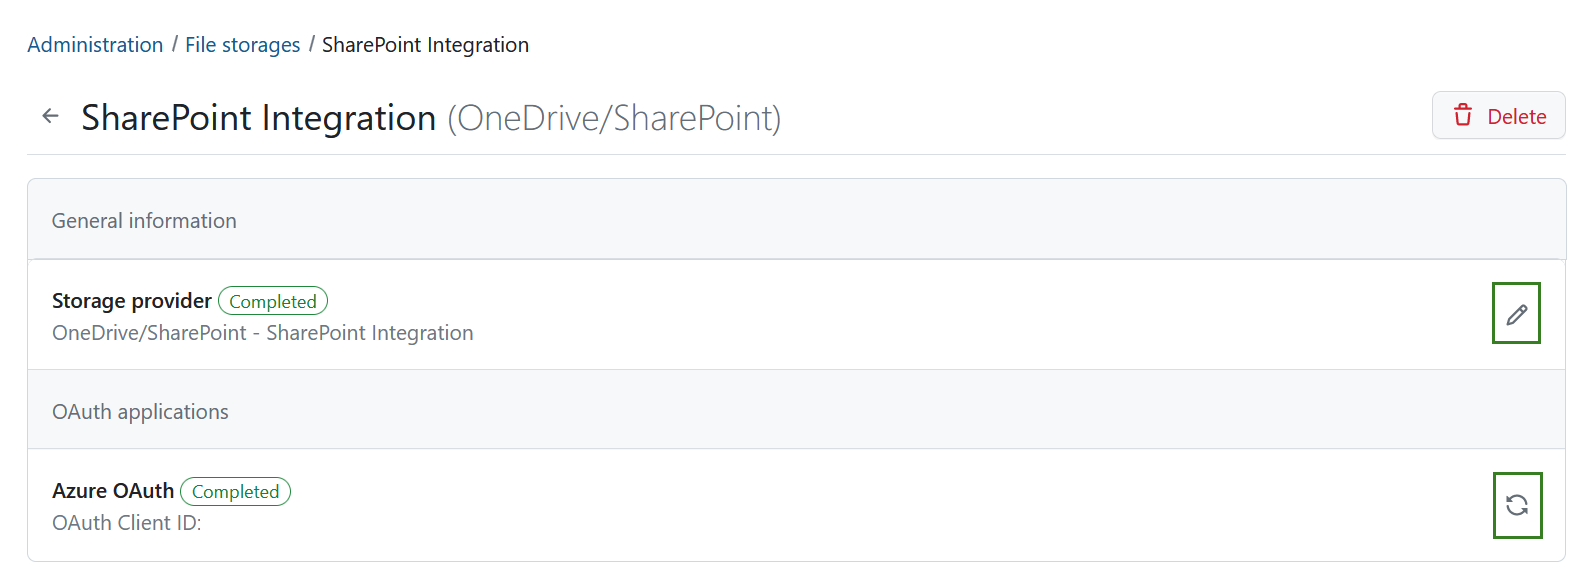
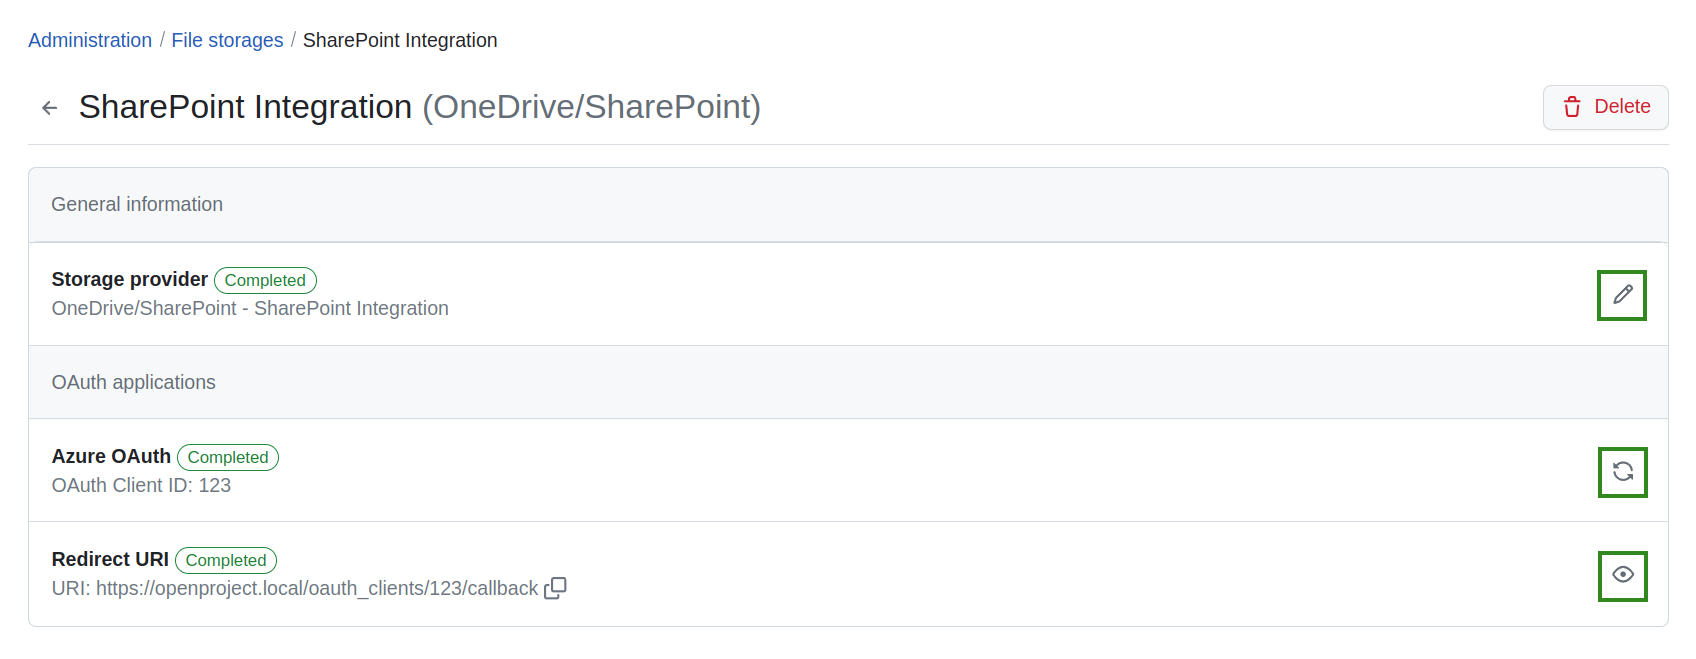
[chore] update screenshots for one drive admin guide

diff --git a/docs/system-admin-guide/integrations/one-drive/README.md b/docs/system-admin-guide/integrations/one-drive/README.md
@@ -6,26 +6,31 @@ description: Set up One Drive as a file storage in your OpenProject instance
 keywords: One Drive, SharePoint, file storage, integration
 ---
 
-
 # OneDrive/SharePoint (Enterprise add-on) integration setup
 
-| Topic                                                        | Description                                                  |
-| ------------------------------------------------------------ | :----------------------------------------------------------- |
-| [Minimum requirements](#minimum-requirements)                | Minimum version requirements to enable the integration       |
-| [Set up the integration](#set-up-the-integration)            | Connect OpenProject and OneDrive/SharePoint instances as an administrator |
-| [Drive ID guide](./drive-id-guide)                           | How to obtain a drive ID                                     |
-| [Using the integration](#using-the-integration)              | How to use the OneDrive/SharePoint integration               |
-| [Edit a OneDrive/SharePoint file storage](#edit-a-onedrivesharepoint-file-storage) | Edit a OneDrive/SharePoint file storage                      |
-| [Delete an OneDrive/SharePoint file storage](#delete-a-onedrivesharepoint-file-storage) | Delete a OneDrive/SharePoint file storage                    |
+| Topic                                                                                   | Description                                                               |
+|-----------------------------------------------------------------------------------------|:--------------------------------------------------------------------------|
+| [Minimum requirements](#minimum-requirements)                                           | Minimum version requirements to enable the integration                    |
+| [Set up the integration](#set-up-the-integration)                                       | Connect OpenProject and OneDrive/SharePoint instances as an administrator |
+| [Drive ID guide](./drive-id-guide)                                                      | How to obtain a drive ID                                                  |
+| [Using the integration](#using-the-integration)                                         | How to use the OneDrive/SharePoint integration                            |
+| [Edit a OneDrive/SharePoint file storage](#edit-a-onedrivesharepoint-file-storage)      | Edit a OneDrive/SharePoint file storage                                   |
+| [Delete an OneDrive/SharePoint file storage](#delete-a-onedrivesharepoint-file-storage) | Delete a OneDrive/SharePoint file storage                                 |
 
-> **Note**: OneDrive/SharePoint integration is an Enterprise add-on and can only be used with [Enterprise cloud](../../../enterprise-guide/enterprise-cloud-guide/) or [Enterprise on-premises](../../../enterprise-guide/enterprise-on-premises-guide/). An upgrade from the free Community edition is easy and helps support OpenProject.
+> **Note**: OneDrive/SharePoint integration is an Enterprise add-on and can only be used
+> with [Enterprise cloud](../../../enterprise-guide/enterprise-cloud-guide/)
+> or [Enterprise on-premises](../../../enterprise-guide/enterprise-on-premises-guide/). An upgrade from the free
+> Community
+> edition is easy and helps support OpenProject.
 
 OpenProject offers an integration with OneDrive/SharePoint to allow users to:
 
 - Link files and folders stored in OneDrive/SharePoint with OpenProject work packages
 - View, open and download files and folder linked to a work package via the Files tab
 
-> Note: This guide only covers the integration setup. Please go to our [OneDrive/SharePoint integration user guide](../../../user-guide/file-management/nextcloud-integration/) to learn more about how to work with the OneDrive/SharePoint integration.
+> Note: This guide only covers the integration setup. Please go to
+> our [OneDrive/SharePoint integration user guide](../../../user-guide/file-management/nextcloud-integration/) to learn
+> more about how to work with the OneDrive/SharePoint integration.
 
 ## Minimum requirements
 
@@ -34,57 +39,78 @@ Please note these minimum version requirements for the integration to work with 
 - OpenProject version 13.1 (or above)
 - Access to OneDrive/SharePoint
 
-We recommend using the latest versions of both OneDrive/SharePoint and OpenProject to be able to use the latest features. 
+We recommend using the latest versions of both OneDrive/SharePoint and OpenProject to be able to use the latest
+features.
 
 ## Set up the integration
 
 > **Important**: You need administrator privileges in the Azure portal for your Microsoft Entra ID and in your
 > OpenProject instance to set up this integration.
 
-Navigate to **System administration -> File storages**. You will see the list of all storages that have already been set up. If no files storages have been set up yet, a banner will tell you that there are no storages yet set up.
+Navigate to **System administration -> File storages**. You will see the list of all storages that have already been set
+up. If no files storages have been set up yet, a banner will tell you that there are no storages yet set up.
 
 Click the green **+Storage** button and select the OneDrive/SharePoint option.
 
 ![Add a new OneDrive/SharePoint storage to OpenProject](openproject_system_guide_new_onedrive_storage.png)
 
-A screen will open, in which you will need to add the following details for your new OneDrive/SharePoint storage. Please consult your Azure administrator and the [Drive ID guide](./drive-id-guide) to obtain respective information.
+A screen will open, in which you will need to add the following details for your new OneDrive/SharePoint storage. Please
+consult your Azure administrator and the [Drive ID guide](./drive-id-guide) to obtain respective information. Be aware,
+that the last step includes copying generated information to the Azure portal.
 
 ![Setting up a new OneDrive/SharePoint](openproject_system_guide_new_onedrive_storage_details.png)
 
 ## Using the integration
 
-Once the [file storage is added and enabled for projects](../../../user-guide/projects/project-settings/file-storages), your users are able to take full advantage of the integration between OneDrive/SharePoint and OpenProject. For more information on how to link SharePoint files to work packages in OpenProject, please refer to the [OneDrive/SharePoint integration user guide](../../../user-guide/file-management/one-drive-integration).
+Once the [file storage is added and enabled for projects](../../../user-guide/projects/project-settings/file-storages),
+your users are able to take full advantage of the integration between OneDrive/SharePoint and OpenProject. For more
+information on how to link SharePoint files to work packages in OpenProject, please refer to
+the [OneDrive/SharePoint integration user guide](../../../user-guide/file-management/one-drive-integration).
 
 ## Edit a OneDrive/SharePoint file storage
 
-To edit an existing OneDrive/SharePoint file storage hover over the name of the storage you want to edit and click it. 
+To edit an existing OneDrive/SharePoint file storage hover over the name of the storage you want to edit and click it.
 
 ![Select OneDrive/SharePoint file storage in OpenProject system administration](openproject_system_guide_select_onedrive_storage.png)
 
-To update the general storage information, click the **Edit** icon next to the storage provider. To replace the Azure authentication information, click on the **Sync** icon next to the OAuth application.
+To update the general storage information, click the **Edit** icon next to the storage provider. To replace the Azure
+authentication information, click on the **Sync** icon next to the OAuth application. With changing the authentication
+information the redirect URI will get generated again and thus needs to be copied again. The redirect URI can be copied
+by clicking on the **Copy-to-Clipboard** element next to the information text, or by entering the form by clicking the
+**View** icon.
 
 ![Edit OneDrive/SharePoint in OpenProject](openproject_system_guide_edit_icon_onedrive_storage.png)
 
-Here you will be able to edit all of the information you have specified when creating the OneDrive/SharePoint connection initially.
+Here you will be able to edit all of the information you have specified when creating the OneDrive/SharePoint connection
+initially.
 
 ## Delete a OneDrive/SharePoint file storage
 
 You can delete a OneDrive/SharePoint file storage either at a project level or at an instance-level.
 
-Deleting a file storage at a project level simply makes it unavailable to that particular project, without affecting the integration for other projects. Project admins can do so by navigating to **Project settings -> File storages** and clicking the **Delete** icon next to the file storage you would like to remove.
+Deleting a file storage at a project level simply makes it unavailable to that particular project, without affecting the
+integration for other projects. Project admins can do so by navigating to **Project settings -> File storages** and
+clicking the **Delete** icon next to the file storage you would like to remove.
 
 ![Delete a OneDrive/SharePoint storage from an OpenProject project](openproject_system_guide_delete_onedrive_storage_in_a_project.png)
 
-Deleting a file storage at an instance level deletes the OneDrive/SharePoint integration completely, making it inaccessible to all projects in that instance. Should an instance administrator nevertheless want to do so, they can navigate to **Administration -> File storages**, hover over the name of the file storage they want to remove and click it to enter the next page. Then they need to click the **Delete** button in the top right corner.
+Deleting a file storage at an instance level deletes the OneDrive/SharePoint integration completely, making it
+inaccessible to all projects in that instance. Should an instance administrator nevertheless want to do so, they can
+navigate to **Administration -> File storages**, hover over the name of the file storage they want to remove and click
+it to enter the next page. Then they need to click the **Delete** button in the top right corner.
 
 ![Delete icon for SharePoint integration in OpenProject system settings](openproject_system_guide_delete_icon_onedrive_storage.png)
 
-You will be asked to confirm the exact file storage name. 
+You will be asked to confirm the exact file storage name.
 
 ![Delete a SharePoint integration from OpenProject system settings](openproject_system_guide_delete_onedrive_storage.png)
 
-> **Important:** Deleting a file storage as an instance administrator will also delete all settings and links between work packages and OneDrive/SharePoint files/folders. This means that should you want to reconnect your OneDrive/SharePoint instance with OpenProject, you will need complete the entire setup process once again.
+> **Important:** Deleting a file storage as an instance administrator will also delete all settings and links between
+> work packages and OneDrive/SharePoint files/folders. This means that should you want to reconnect your
+> OneDrive/SharePoint instance with OpenProject, you will need complete the entire setup process once again.
 
 ## Getting support
 
-If you run into any issues or you cannot setup your integration yourself please use our [Support Installation & Updates forum](https://community.openproject.org/projects/openproject/forums/9) or if you have an Enterprise subscription, please contact us at Enterprise Support.
+If you run into any issues or you cannot setup your integration yourself please use
+our [Support Installation & Updates forum](https://community.openproject.org/projects/openproject/forums/9) or if you
+have an Enterprise subscription, please contact us at Enterprise Support.
